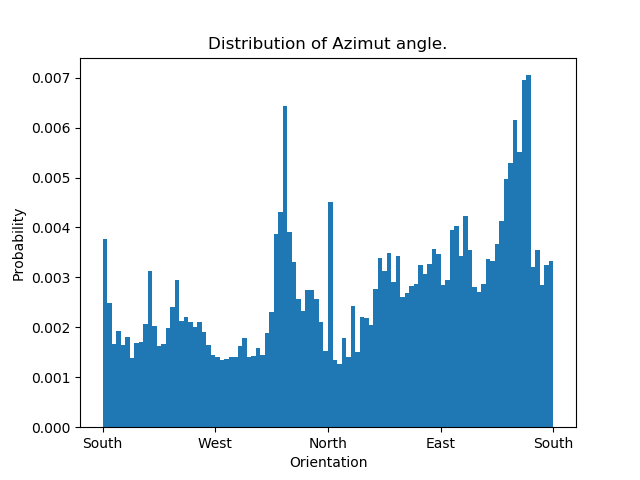
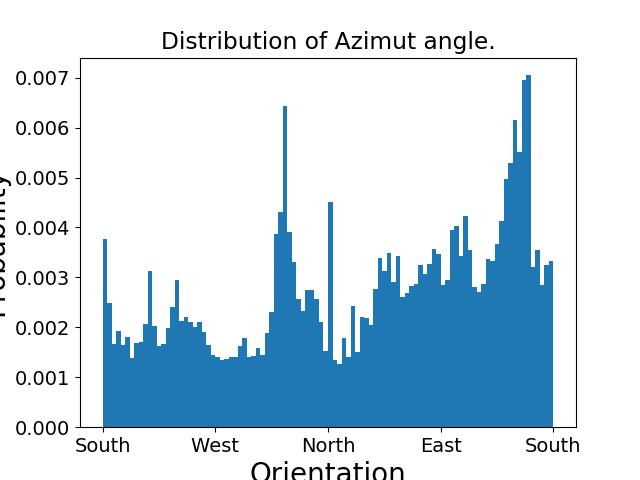
Plot font increased

diff --git a/main.py b/main.py
@@ -1,5 +1,7 @@
 import os
 import matplotlib.pyplot as plt
+#plt.rcParams.update({'font.size': 14})
+#plt.rc('axes', labelsize=20)
 import csv
 import numpy as np
 
@@ -64,6 +66,7 @@ def main():
     plt.xticks([-180,-90,0,90,180], ("South", 'West', 'North', 'East', 'South'))
     plt.xlabel("Orientation")
     plt.ylabel("Probability")
+    plt.tight_layout()
     plt.savefig(os.path.join(result,'azimut_week.png'))
 
     plt.figure()
@@ -72,6 +75,7 @@ def main():
     plt.xticks([-90,-45,0,45,90], ('-90°','-45°', '0°', '45°', '90°'))
     plt.xlabel("Angle")
     plt.ylabel("Probability")
+    plt.tight_layout()
     plt.savefig(os.path.join(result,'pitch_week.png'))
 
     plt.figure()
@@ -80,6 +84,7 @@ def main():
     plt.xticks([-180,-90,0,90,180], ('-180°','-90°', '0°', '90°', '180°'))
     plt.xlabel("Angle")
     plt.ylabel("Probability")
+    plt.tight_layout()
     plt.savefig(os.path.join(result,'roll_week.png'))
 
 if __name__ == '__main__':
